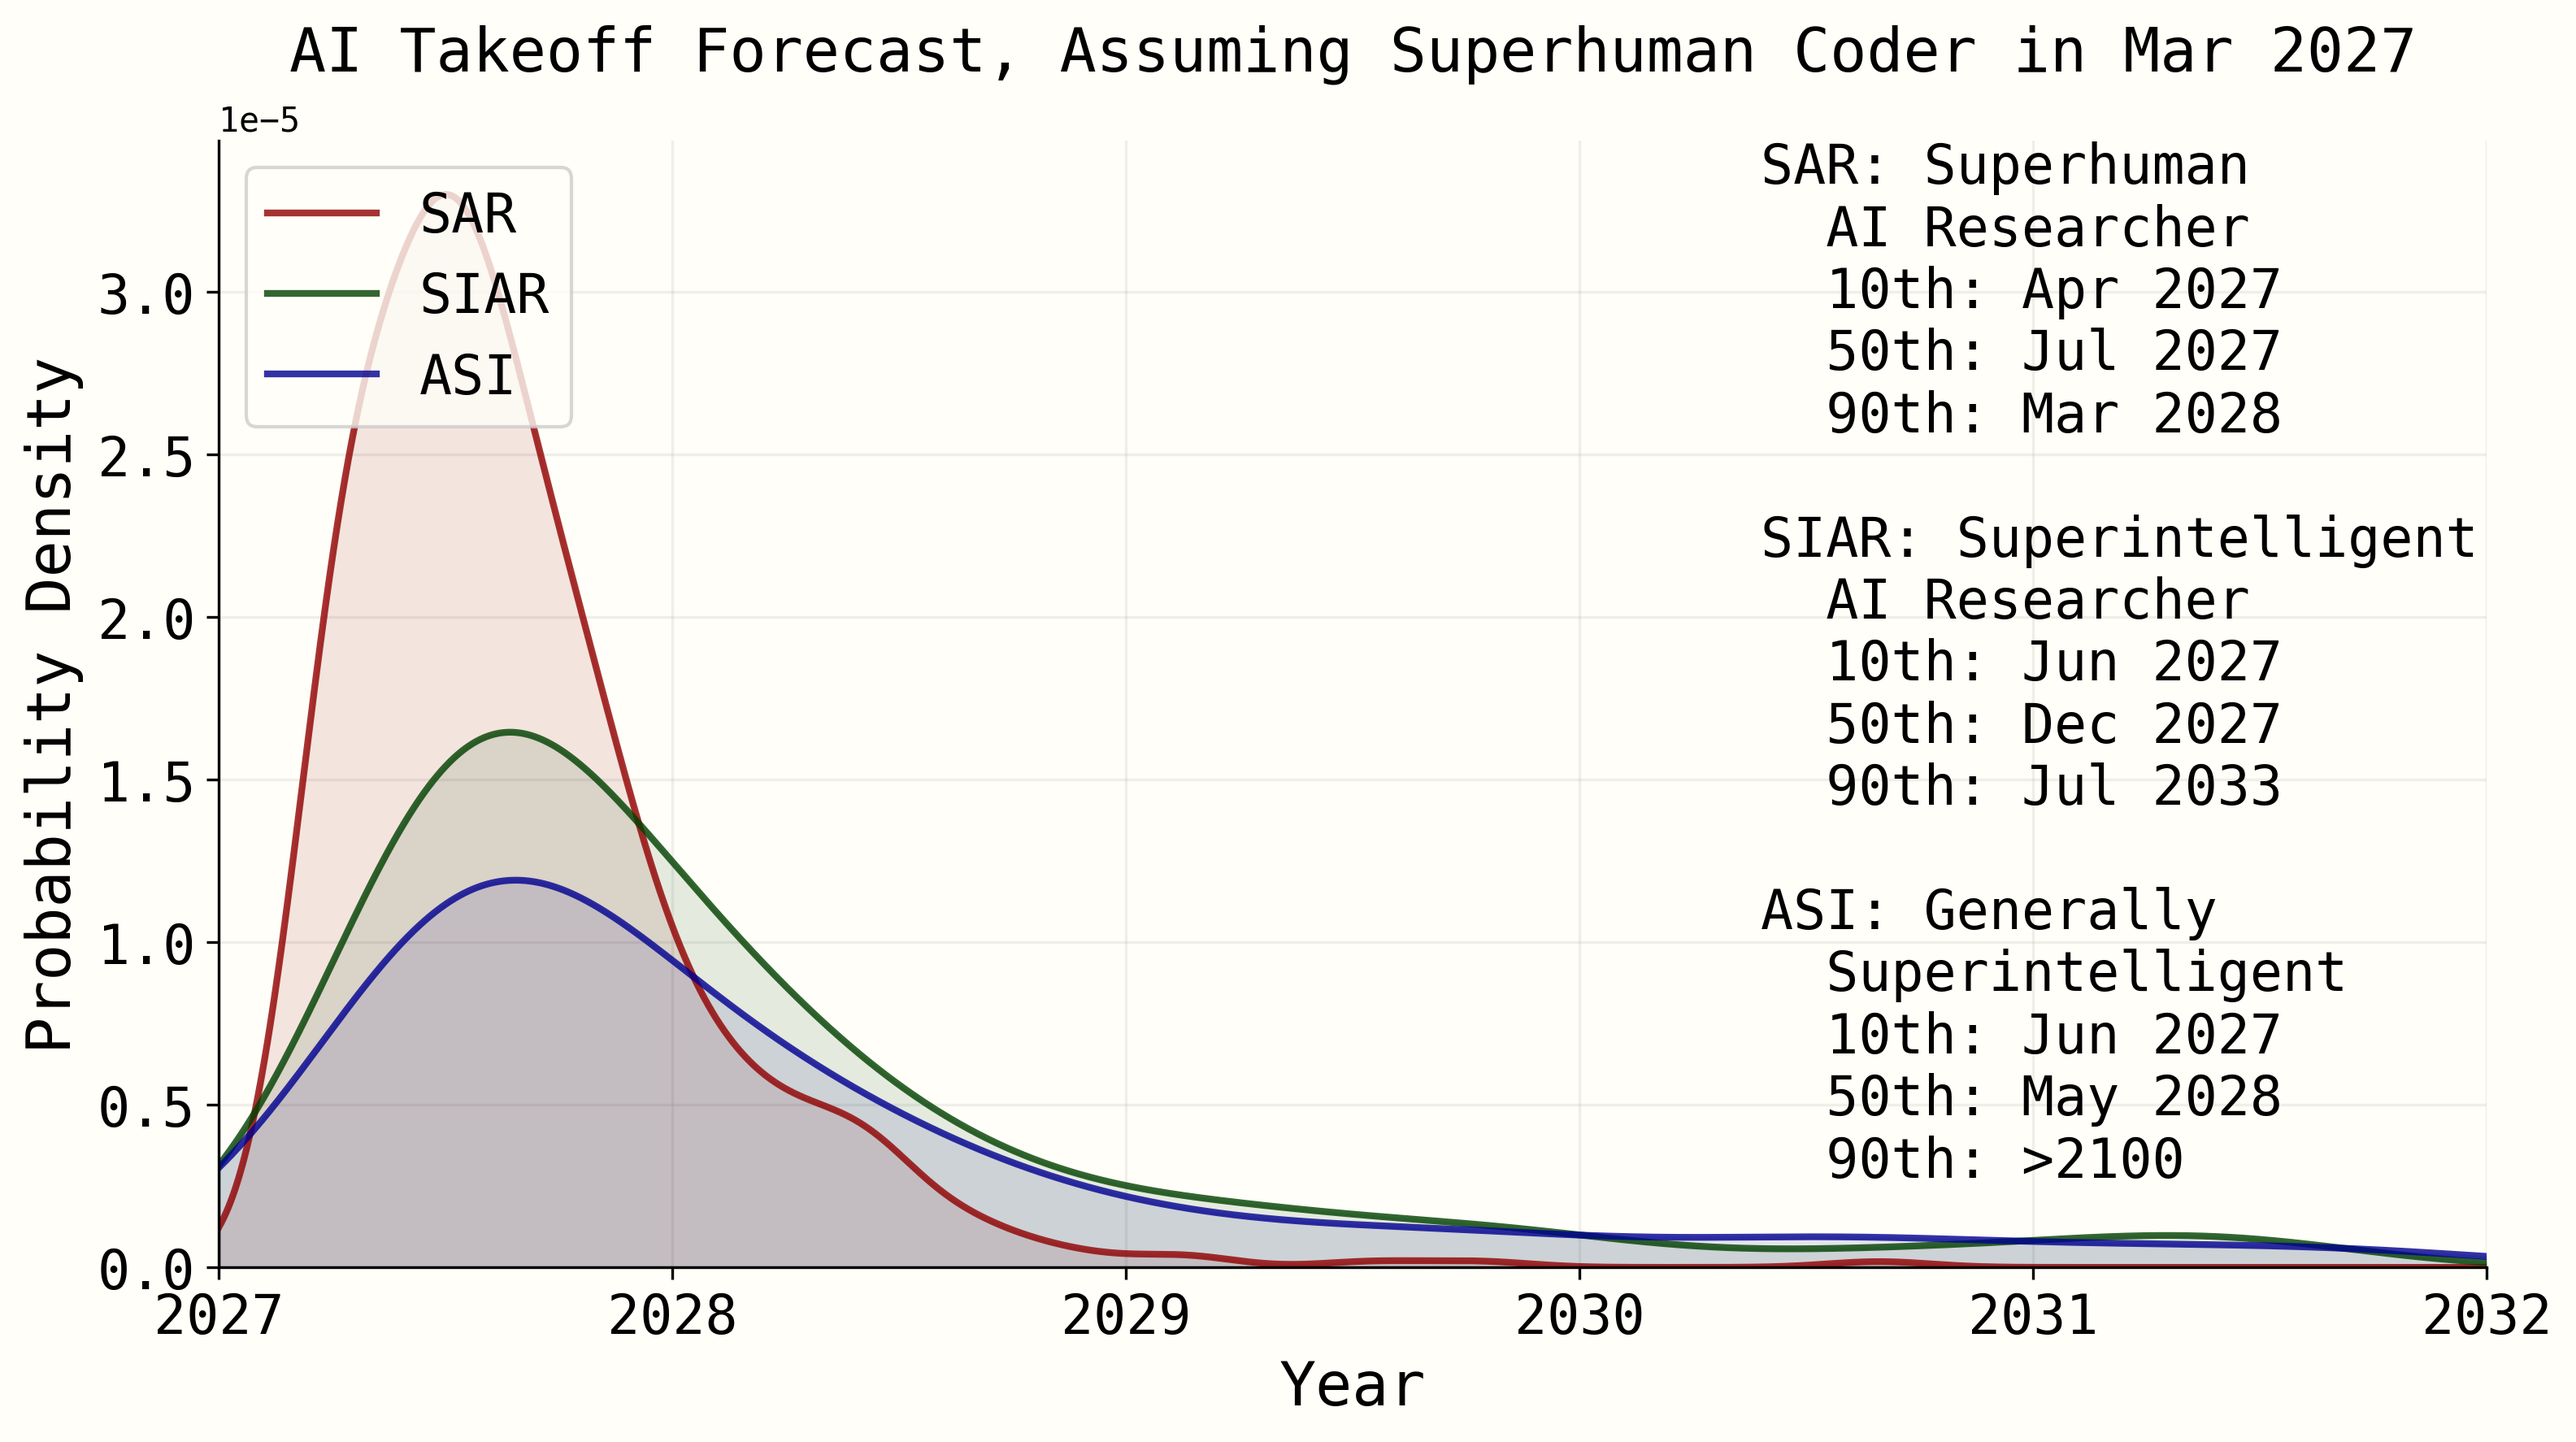
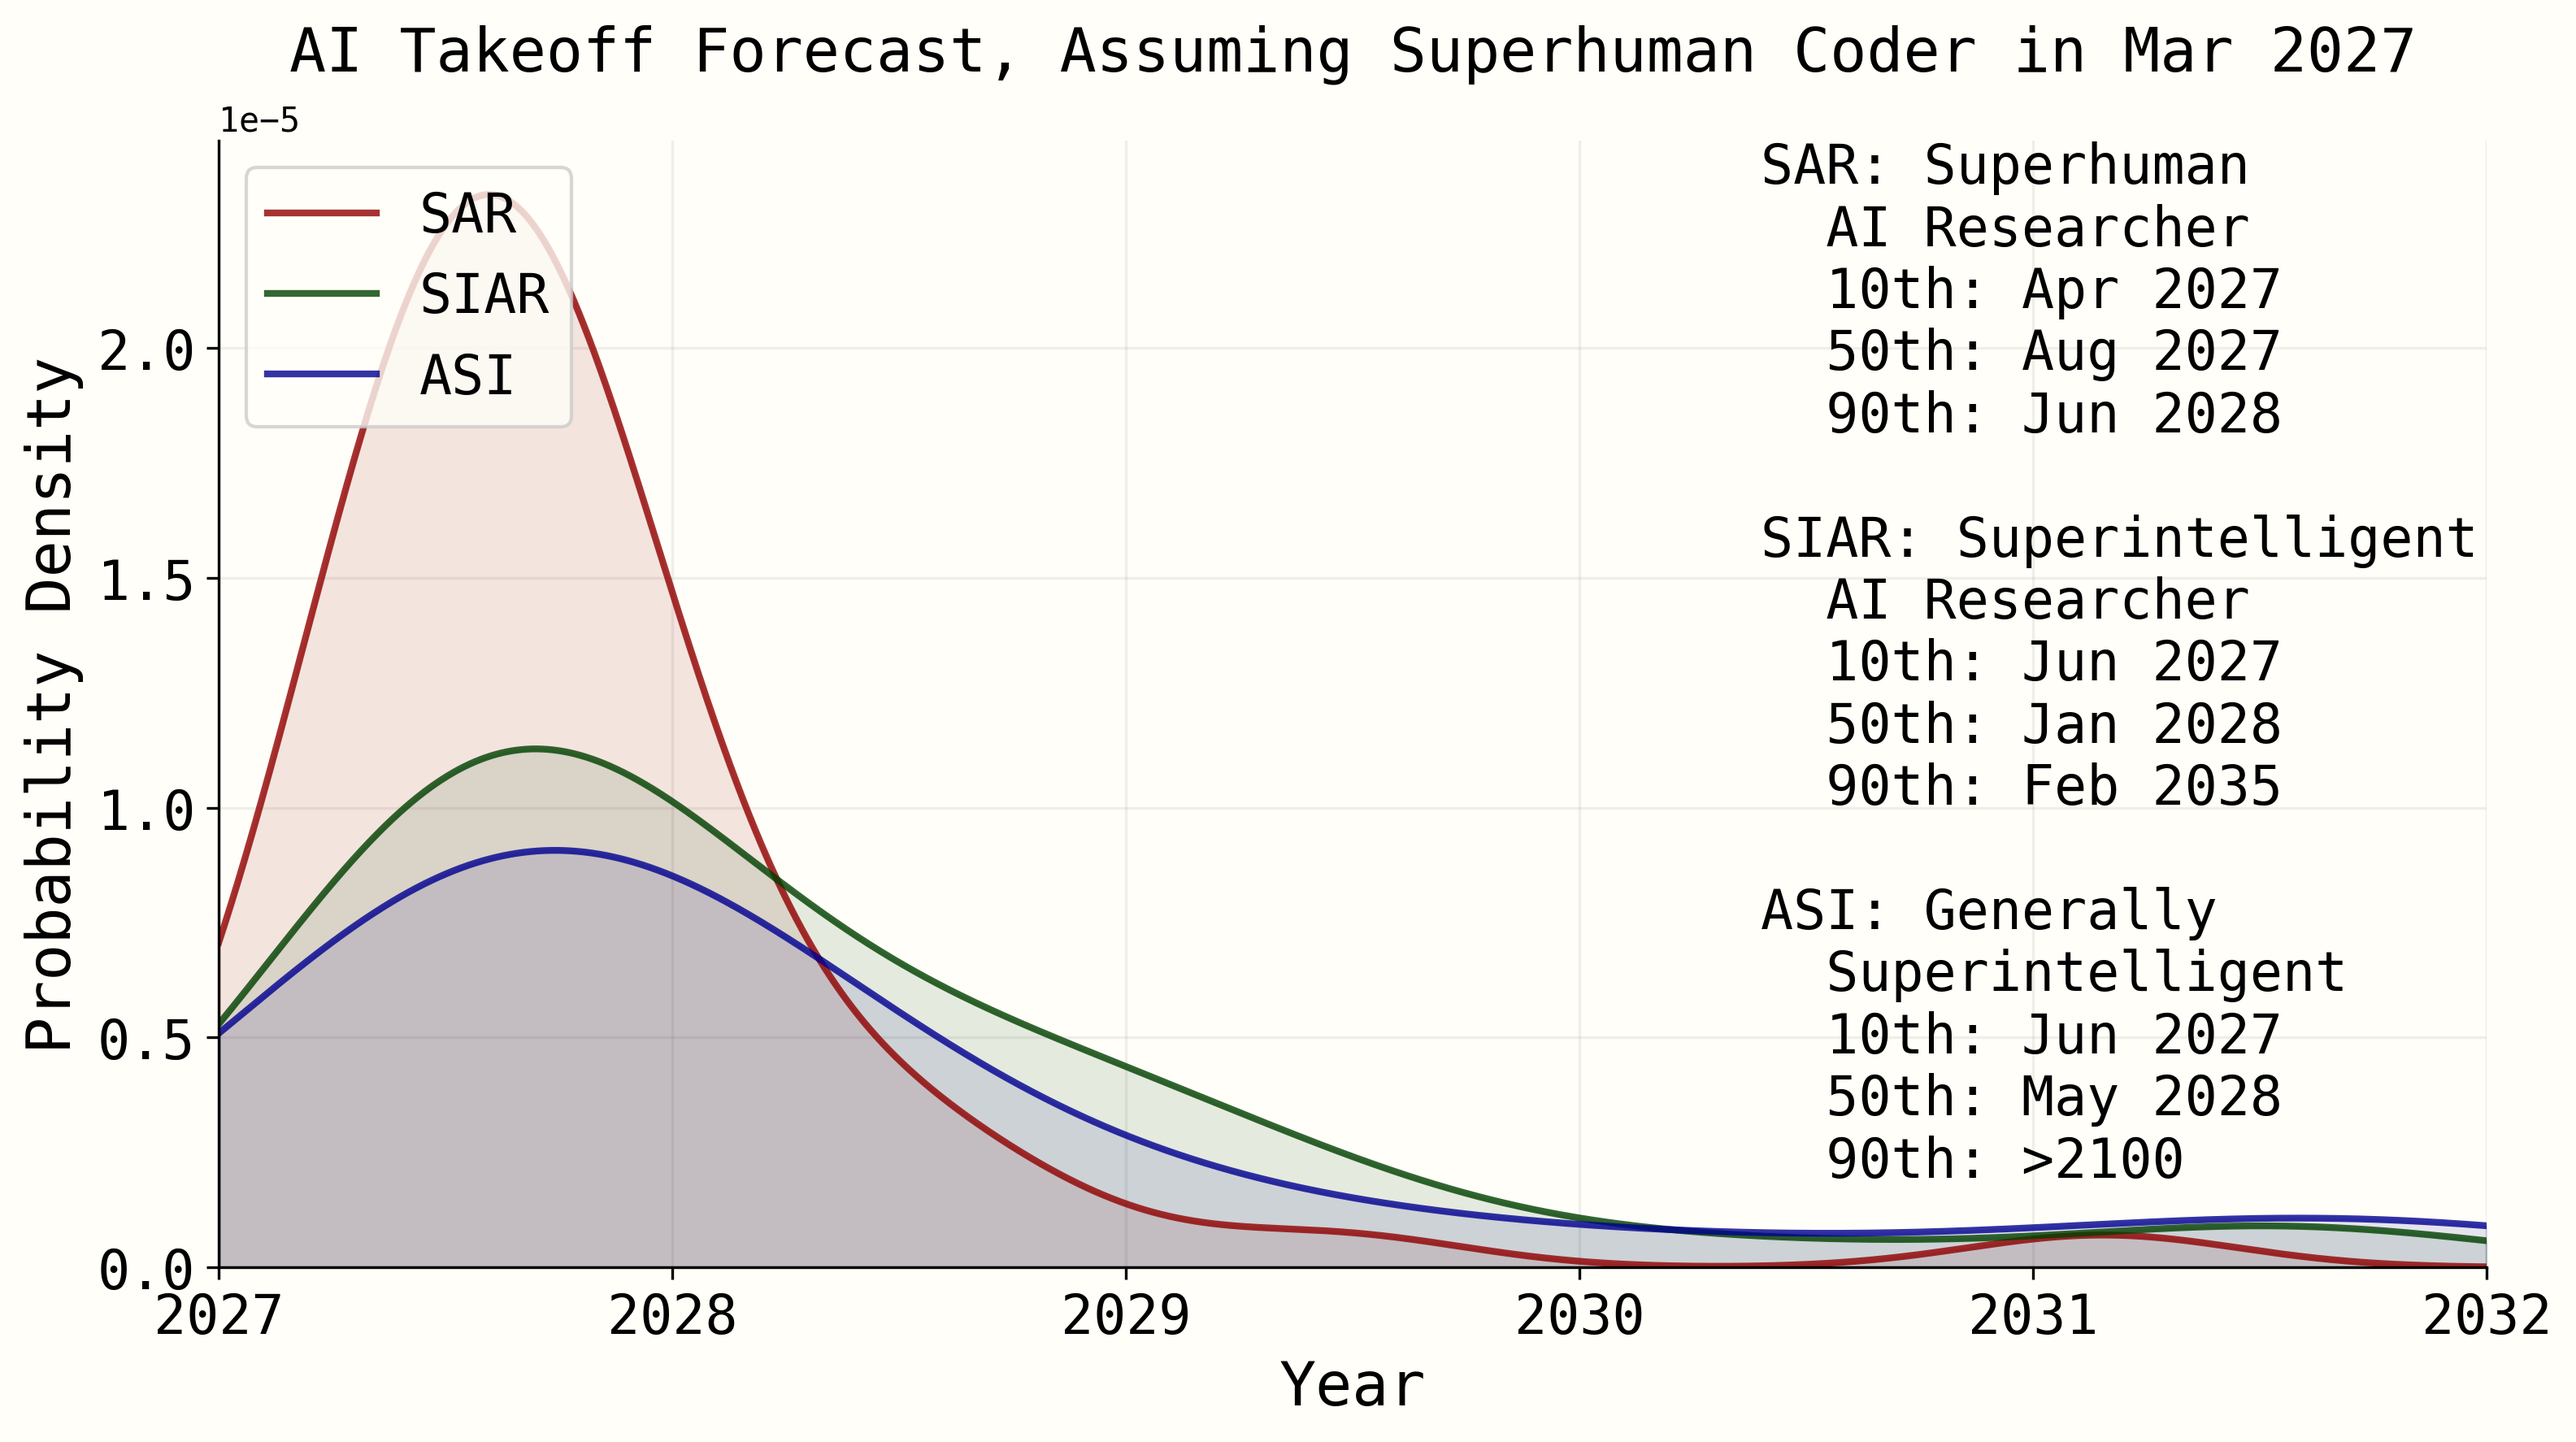
add sar date plot

diff --git a/takeoff/forecasting_takeoff.py b/takeoff/forecasting_takeoff.py
@@ -670,6 +670,7 @@ def run_multi_project_takeoff_simulation(config_path: str = "takeoff_params.yaml
     fig_multi_timeline = create_multi_project_timeline_plot(all_first_milestone_dates, all_project_results, config, plotting_style, fonts)
     fig_project_delays = create_project_delay_plot(all_project_results, config, plotting_style, fonts, project_progress_samples)
     fig_sc_timeline = create_project_sc_timeline_plot(all_project_results, config, plotting_style, fonts)
+    fig_sar_timeline = create_project_sar_timeline_plot(all_project_results, config, plotting_style, fonts)
     
     # Also create single-project plots for the fastest project (for comparison)
     fastest_project = min(project_progress_samples.keys(), key=lambda x: 1/np.mean(project_progress_samples[x]))  # Highest mean progress rate
@@ -685,6 +686,7 @@ def run_multi_project_takeoff_simulation(config_path: str = "takeoff_params.yaml
     fig_multi_timeline.savefig(output_dir / "multi_project_takeoff_timeline.png", dpi=300, bbox_inches="tight")
     fig_project_delays.savefig(output_dir / "project_sar_delays.png", dpi=300, bbox_inches="tight")
     fig_sc_timeline.savefig(output_dir / "project_sc_timeline.png", dpi=300, bbox_inches="tight")
+    fig_sar_timeline.savefig(output_dir / "project_sar_timeline.png", dpi=300, bbox_inches="tight")
     fig_fastest_timeline.savefig(output_dir / f"fastest_project_{fastest_project.replace(' ', '_')}_timeline.png", dpi=300, bbox_inches="tight")
     fig_fastest_phases.savefig(output_dir / f"fastest_project_{fastest_project.replace(' ', '_')}_phases.png", dpi=300, bbox_inches="tight")
     
@@ -1514,6 +1516,7 @@ def run_takeoff_simulation(config_path: str = "takeoff_params.yaml") -> tuple[pl
     fig_multi_timeline = create_multi_project_timeline_plot(all_first_milestone_dates, all_project_results, config, plotting_style, fonts)
     fig_project_delays = create_project_delay_plot(all_project_results, config, plotting_style, fonts, project_progress_samples)
     fig_sc_timeline = create_project_sc_timeline_plot(all_project_results, config, plotting_style, fonts)
+    fig_sar_timeline = create_project_sar_timeline_plot(all_project_results, config, plotting_style, fonts)
     
     # Also create single-project plots for the fastest project (for comparison)
     fastest_project = min(project_progress_samples.keys(), key=lambda x: 1/np.mean(project_progress_samples[x]))  # Highest mean progress rate
@@ -1529,6 +1532,7 @@ def run_takeoff_simulation(config_path: str = "takeoff_params.yaml") -> tuple[pl
     fig_multi_timeline.savefig(output_dir / "multi_project_takeoff_timeline.png", dpi=300, bbox_inches="tight")
     fig_project_delays.savefig(output_dir / "project_sar_delays.png", dpi=300, bbox_inches="tight")
     fig_sc_timeline.savefig(output_dir / "project_sc_timeline.png", dpi=300, bbox_inches="tight")
+    fig_sar_timeline.savefig(output_dir / "project_sar_timeline.png", dpi=300, bbox_inches="tight")
     fig_fastest_timeline.savefig(output_dir / f"fastest_project_{fastest_project.replace(' ', '_')}_timeline.png", dpi=300, bbox_inches="tight")
     fig_fastest_phases.savefig(output_dir / f"fastest_project_{fastest_project.replace(' ', '_')}_phases.png", dpi=300, bbox_inches="tight")
     
@@ -1729,6 +1733,155 @@ def create_project_sc_timeline_plot(all_project_results: list[dict], config: dic
     ax.set_xlabel("Year", fontsize=plotting_style["font"]["sizes"]["axis_labels"])
     ax.set_ylabel("Probability Density", fontsize=plotting_style["font"]["sizes"]["axis_labels"])
     ax.set_title("Multi-Project Comparison: Superhuman Coder Achievement", 
+                 fontsize=plotting_style["font"]["sizes"]["title"], pad=10)
+    
+    # Add grid and styling
+    ax.grid(True, alpha=0.2, zorder=0)
+    ax.set_axisbelow(True)
+    ax.spines['top'].set_visible(False)
+    ax.spines['right'].set_visible(False)
+    
+    # Add legend
+    legend = ax.legend(loc='upper left', fontsize=plotting_style["font"]["sizes"]["legend"])
+    for text in legend.get_texts():
+        text.set_fontproperties(fonts['regular_legend'])
+    
+    # Configure ticks
+    ax.tick_params(axis="both", labelsize=plotting_style["font"]["sizes"]["ticks"])
+
+    return fig
+
+def create_project_sar_timeline_plot(all_project_results: list[dict], config: dict, plotting_style: dict, fonts: dict) -> plt.Figure:
+    """Create timeline plot showing SAR achievement distributions for multiple projects.
+    
+    Args:
+        all_project_results: List of project results for each simulation
+        config: Configuration dictionary
+        plotting_style: Plotting style configuration
+        fonts: Font configuration
+    """
+    # Get background color
+    background_color = "#FFFEF8"
+    bg_rgb = tuple(int(background_color.lstrip('#')[i:i+2], 16)/255 for i in (0, 2, 4))
+    
+    fig = plt.figure(figsize=(12, 6), dpi=150, facecolor=bg_rgb)
+    ax = fig.add_subplot(111)
+    ax.set_facecolor(bg_rgb)
+    
+    # Project comparison - show SAR distributions for each project
+    projects = list(config["projects"].keys())
+    project_colors = plt.cm.Set3(np.linspace(0, 1, len(projects)))
+    
+    # Extend the graph range to show full distributions
+    MAX_GRAPH_YEAR = 2050  # Extended to show more of the distributions
+    start_year = float(config["starting_time"].split()[-1])
+    
+    # Plot SAR distributions for each project
+    stats_text = ""
+    for proj_idx, project_name in enumerate(projects):
+        project_sar_times = []
+        for sim_results in all_project_results:
+            if project_name in sim_results and len(sim_results[project_name]) > 1:
+                sar_date = sim_results[project_name][1]  # SAR is at index 1
+                if sar_date.year < 9999:  # Filter out capped values
+                    project_sar_times.append(sar_date.year + sar_date.timetuple().tm_yday/365)
+        
+        if project_sar_times and len(project_sar_times) > 5:  # Lower threshold
+            # Calculate percentiles for stats
+            p10 = np.percentile(project_sar_times, 10)
+            p50 = np.percentile(project_sar_times, 50)
+            p90 = np.percentile(project_sar_times, 90)
+            
+            # Convert decimal years to month and year format for display
+            def year_to_date(year):
+                year_int = int(year)
+                if year_int > 9999:
+                    return f"{year_int}"
+                month = int((year - year_int) * 12) + 1
+                month_name = datetime(year_int, month, 1).strftime('%b')
+                return f"{month_name} {year_int}"
+            
+            # Filter data to visible range - use most of the data
+            visible_data = [x for x in project_sar_times if x <= MAX_GRAPH_YEAR]
+            
+            if visible_data:
+                # Check if we need special handling for Leading Project (all same values)
+                unique_visible = len(set(visible_data))
+                
+                if unique_visible <= 1:
+                    # All values are the same - plot vertical line
+                    median_sar = visible_data[0]
+                    ax.axvline(x=median_sar, color=project_colors[proj_idx], linestyle='-', linewidth=3,
+                             alpha=0.8, label=f"{project_name}", zorder=2)
+                    
+                elif unique_visible < 5:
+                    # Too few unique values for KDE, use histogram
+                    data_min = min(visible_data)
+                    data_max = max(visible_data)
+                    if data_max > data_min:
+                        bins = np.linspace(data_min, data_max, max(3, unique_visible))
+                        hist, bin_edges = np.histogram(visible_data, bins=bins, density=True)
+                        bin_centers = (bin_edges[:-1] + bin_edges[1:]) / 2
+                        
+                        # Plot as step function
+                        ax.step(bin_centers, hist, where='mid', color=project_colors[proj_idx], 
+                               label=f"{project_name}", linewidth=2, alpha=0.8)
+                        ax.fill_between(bin_centers, hist, step='mid', color=project_colors[proj_idx], alpha=0.2)
+                    else:
+                        # All values identical, just show vertical line
+                        ax.axvline(x=data_min, color=project_colors[proj_idx], linestyle='-', linewidth=3,
+                                 alpha=0.8, label=f"{project_name}", zorder=2)
+                else:
+                    # Use KDE for smooth distribution
+                    try:
+                        kde = gaussian_kde(visible_data)
+                        x_range = np.linspace(min(visible_data), MAX_GRAPH_YEAR, 1000)
+                        density = kde(x_range)
+                        
+                        # Plot distribution
+                        ax.plot(x_range, density, '-', color=project_colors[proj_idx], 
+                               label=f"{project_name}", linewidth=2, alpha=0.8)
+                        ax.fill_between(x_range, density, color=project_colors[proj_idx], alpha=0.2)
+                        
+                    except (np.linalg.LinAlgError, ValueError):
+                        # KDE failed, fall back to histogram
+                        bins = min(15, max(5, unique_visible))
+                        hist, bin_edges = np.histogram(visible_data, bins=bins, density=True)
+                        bin_centers = (bin_edges[:-1] + bin_edges[1:]) / 2
+                        
+                        # Plot as step function  
+                        ax.step(bin_centers, hist, where='mid', color=project_colors[proj_idx], 
+                               label=f"{project_name}", linewidth=2, alpha=0.8)
+                        ax.fill_between(bin_centers, hist, step='mid', color=project_colors[proj_idx], alpha=0.2)
+                
+                # Add to stats text
+                stats = (
+                    f"{project_name}:\n"
+                    f"  10th: {year_to_date(p10)}\n"
+                    f"  50th: {year_to_date(p50)}\n"
+                    f"  90th: {year_to_date(p90)}"
+                )
+                
+                if proj_idx == 0:
+                    stats_text = stats
+                else:
+                    stats_text += f"\n\n{stats}"
+    
+    # Add stats text
+    if stats_text:
+        text = ax.text(0.68, 1, stats_text,
+                transform=ax.transAxes,
+                verticalalignment='top',
+                horizontalalignment='left',
+                fontsize=plotting_style["font"]["sizes"]["small"])
+        text.set_fontproperties(fonts['regular_legend'])
+    
+    # Configure plot styling
+    ax.set_xlim(start_year, MAX_GRAPH_YEAR)
+    ax.set_ylim(0, None)
+    ax.set_xlabel("Year", fontsize=plotting_style["font"]["sizes"]["axis_labels"])
+    ax.set_ylabel("Probability Density", fontsize=plotting_style["font"]["sizes"]["axis_labels"])
+    ax.set_title("Project SAR Achievement Timeline", 
                  fontsize=plotting_style["font"]["sizes"]["title"], pad=10)
     
     # Add grid and styling
